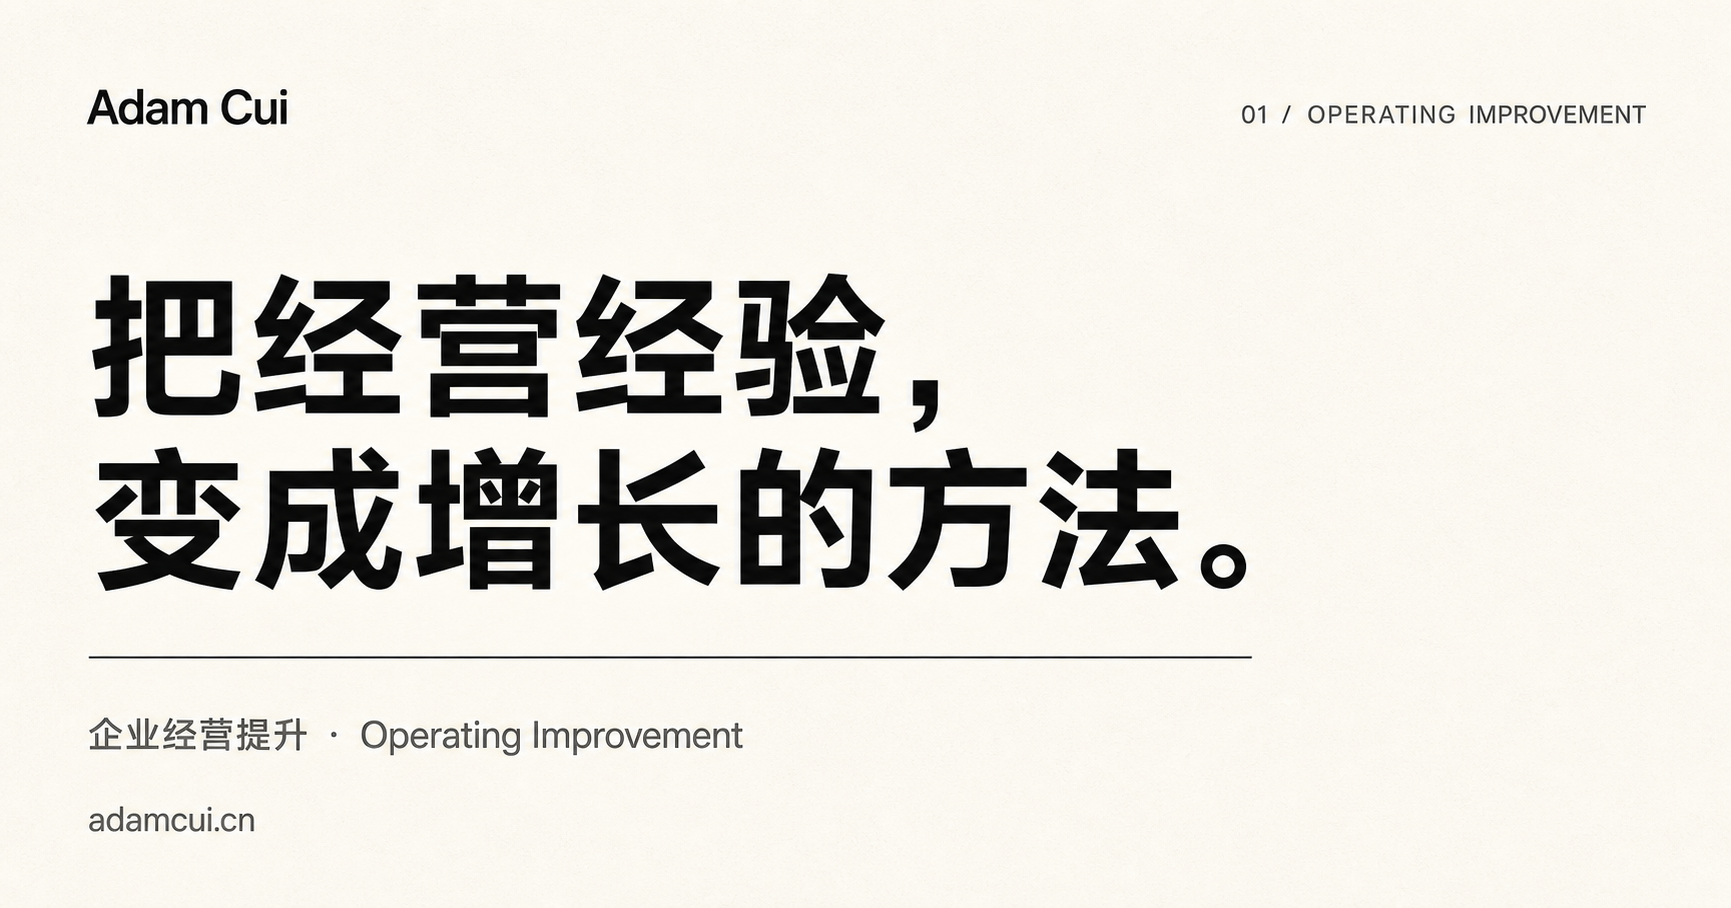
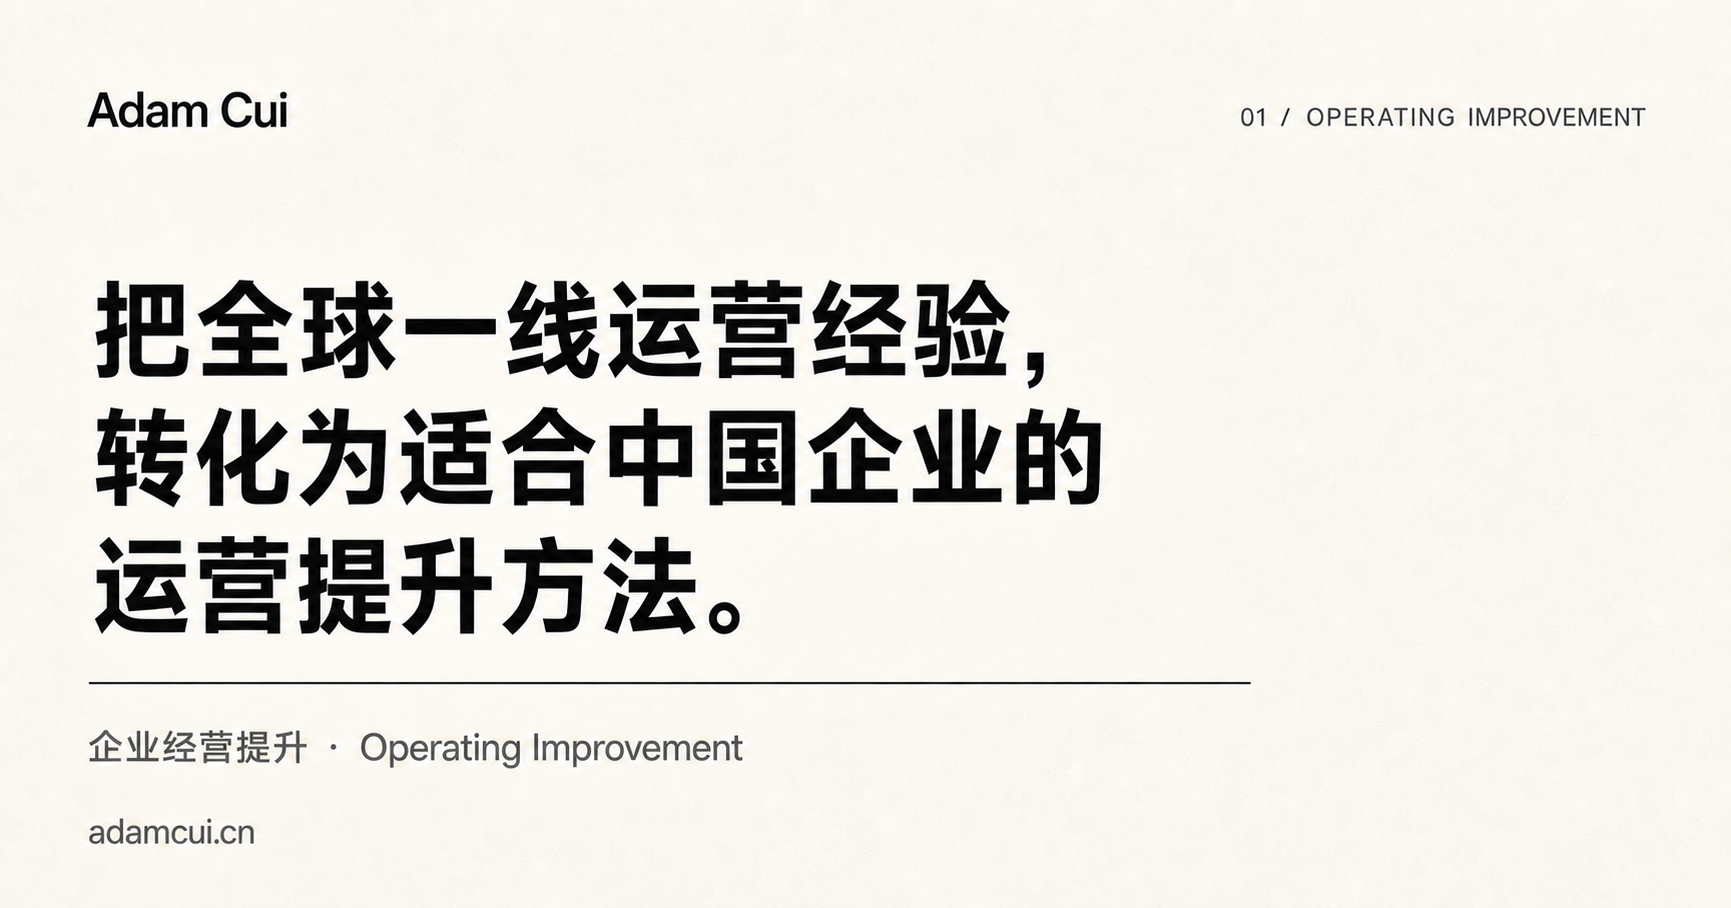
Promote full positioning statement to homepage headline

diff --git a/app/globals.css b/app/globals.css
@@ -14,7 +14,9 @@ nav a:hover { color:var(--ink); text-decoration:underline; text-underline-offset
 .hero { padding:100px 0 112px; }
 .eyebrow { margin:0 0 30px; color:var(--muted); font-size:13px; letter-spacing:.08em; }
 h1 { max-width:900px; margin:0; font-size:clamp(52px,8.6vw,124px); line-height:.94; letter-spacing:-.075em; font-weight:720; }
+.hero h1 { max-width:1140px; font-size:clamp(50px,7vw,98px); line-height:1.02; letter-spacing:-.065em; }
 .hero-copy { max-width:680px; margin:56px 0 50px; font-size:clamp(18px,2.1vw,27px); line-height:1.55; letter-spacing:-.02em; }
+.hero-copy-en { max-width:650px; color:var(--muted); font-size:15px; line-height:1.7; letter-spacing:0; }
 .hero-copy span { display:block; max-width:600px; margin-top:14px; color:var(--muted); font-size:14px; line-height:1.6; letter-spacing:0; }
 .field-line { display:flex; flex-wrap:wrap; gap:7px 0; border-top:1px solid var(--line); padding-top:20px; }
 .field-line span { color:var(--muted); font-size:13px; }
@@ -119,6 +121,7 @@ h1 { max-width:900px; margin:0; font-size:clamp(52px,8.6vw,124px); line-height:.
   .language { grid-column:2; grid-row:1; }
   .hero { padding:72px 0 84px; }
   h1 { font-size:clamp(50px,15vw,72px); }
+  .hero h1 { font-size:clamp(45px,12.7vw,62px); line-height:1.08; }
   .hero-copy { margin-top:42px; }
   .field-line span { font-size:12px; }
   .latest { grid-template-columns:1fr; gap:32px; padding-bottom:72px; }

diff --git a/app/page.tsx b/app/page.tsx
@@ -9,8 +9,8 @@ export default function Home() {
       <Header />
       <section className="hero shell">
         <p className="eyebrow">企业经营提升 · Operating Improvement</p>
-        <h1>把经营经验，<br />变成增长的方法。</h1>
-        <p className="hero-copy">把全球一线运营经验，转化为适合中国企业的运营提升方法。<span>Turning frontline global operating experience into improvement playbooks for Chinese enterprises.</span></p>
+        <h1>把全球一线运营经验，<br />转化为适合中国企业的<br />运营提升方法。</h1>
+        <p className="hero-copy hero-copy-en">Turning frontline global operating experience into improvement playbooks for Chinese enterprises.</p>
         <div className="field-line" aria-label="核心知识领域">{categories.map((field) => <span key={field.key}>{field.zh} {field.en}</span>)}</div>
       </section>
       <section className="latest shell" aria-labelledby="latest-title">
